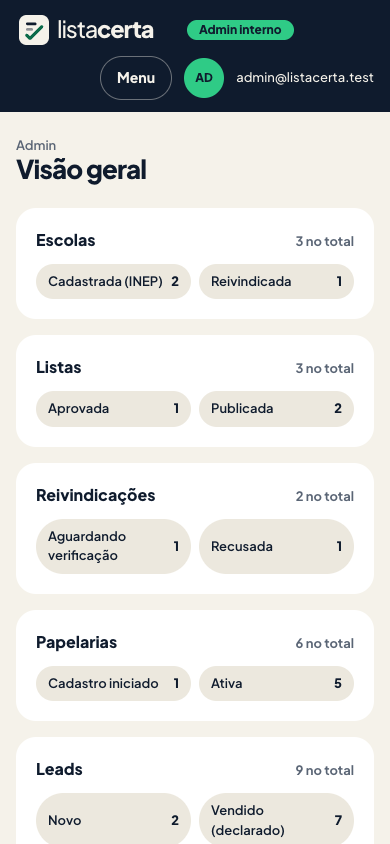
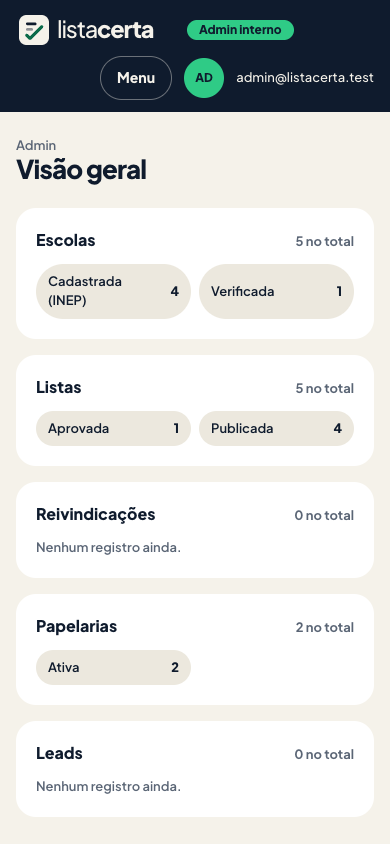
feat(s28): task 30 medicao depois com S19 e areas logadas; correcoes de alvo de toque e dl no admin

diff --git a/app/admin/page.tsx b/app/admin/page.tsx
@@ -27,6 +27,8 @@ function CategoryCard({ title, category, labels }: { title: string; category: Da
       </div>
       {category.unavailable ? (
         <p className="text-erro-texto text-[13px] font-semibold">Não foi possível consultar agora.</p>
+      ) : category.counts.every((c) => c.count === 0) ? (
+        <p className="text-texto-3 text-[13px] font-semibold">Nenhum registro ainda.</p>
       ) : (
         <dl className="grid grid-cols-2 gap-2 text-[13px]">
           {category.counts
@@ -37,7 +39,6 @@ function CategoryCard({ title, category, labels }: { title: string; category: Da
                 <dd className="font-extrabold">{c.count}</dd>
               </div>
             ))}
-          {category.counts.every((c) => c.count === 0) ? <p className="text-texto-3 col-span-2 text-[13px] font-semibold">Nenhum registro ainda.</p> : null}
         </dl>
       )}
     </section>

diff --git a/app/cotacao/nova/page.tsx b/app/cotacao/nova/page.tsx
@@ -72,7 +72,7 @@ export default async function NovaCotacaoPage({ searchParams }: PageProps<"/cota
             idempotencyKey={randomUUID()}
             preview={previewFor(view.context.schoolName, view.context.gradeLabel, view.context.schoolYear)}
           />
-          <Link href={novaHref(base)} className="text-verde-fundo text-center text-[14px] font-extrabold underline">Voltar às papelarias</Link>
+          <Link href={novaHref(base)} className="text-verde-fundo flex min-h-11 items-center justify-center text-center text-[14px] font-extrabold underline">Voltar às papelarias</Link>
         </>
       ) : (
         <>

diff --git a/app/cotacao/[code]/page.tsx b/app/cotacao/[code]/page.tsx
@@ -85,7 +85,7 @@ export default async function CotacaoDetailPage({ params, searchParams }: PagePr
         <p className="bg-campo text-texto-2 rounded-campo px-4 py-3 text-[14px] font-bold" data-testid="lead-closed">Este pedido está encerrado.</p>
       )}
       <Timeline events={events} side="requester" />
-      <Link href="/" className="text-verde-fundo text-center text-[14px] font-extrabold underline">Voltar ao início</Link>
+      <Link href="/" className="text-verde-fundo flex min-h-11 items-center justify-center text-center text-[14px] font-extrabold underline">Voltar ao início</Link>
     </Screen>
   );
 }

diff --git a/components/saved-lists/SavedListsSection.tsx b/components/saved-lists/SavedListsSection.tsx
@@ -12,7 +12,7 @@ export function SavedListsSection({ savedLists }: { savedLists: readonly SavedLi
       <div className="flex items-center justify-between">
         <h2 className="text-[15px] font-extrabold">Listas salvas</h2>
         {savedLists.length > 0 ? (
-          <Link href="/conta/listas-salvas" className="text-verde-fundo text-[13px] font-extrabold">
+          <Link href="/conta/listas-salvas" className="text-verde-fundo inline-flex min-h-11 items-center text-[13px] font-extrabold">
             Ver todas
           </Link>
         ) : null}

diff --git a/components/cart/CartsSection.tsx b/components/cart/CartsSection.tsx
@@ -15,7 +15,7 @@ export function CartsSection({ carts }: { carts: readonly CartSummaryRow[] }) {
       <div className="flex items-center justify-between">
         <h2 className="text-[15px] font-extrabold">Seus carrinhos</h2>
         {carts.length > 0 ? (
-          <Link href="/conta/carrinhos" className="text-verde-fundo text-[13px] font-extrabold">
+          <Link href="/conta/carrinhos" className="text-verde-fundo inline-flex min-h-11 items-center text-[13px] font-extrabold">
             Ver todos
           </Link>
         ) : null}

diff --git a/components/cart/OptionCard.tsx b/components/cart/OptionCard.tsx
@@ -89,7 +89,7 @@ export function OptionCard({ option, cartId, selected, action }: Props) {
       {option.strategy === "local_stationery" ? (
         <Link
           href={`/cotacao/nova?carrinho=${cartId}`}
-          className="text-verde-fundo text-center text-sm font-extrabold underline"
+          className="text-verde-fundo flex min-h-11 items-center justify-center text-center text-sm font-extrabold underline"
         >
           Pedir cotação a papelarias
         </Link>

diff --git a/scripts/s28-comparar.py b/scripts/s28-comparar.py
@@ -1,0 +1,82 @@
+#!/usr/bin/env python3
+"""S28 Task 30: monta docs/superpowers/evidencias/S28/comparacao.md (antes x depois) e as capturas lado a lado.
+Lê antes/{lighthouse,axe}.md e depois/{lighthouse,axe}.md gerados por scripts/s28-medir.mjs."""
+import os, re
+from PIL import Image, ImageDraw
+
+ROOT = "docs/superpowers/evidencias/S28"
+ACEITE = ["inicio", "busca", "lista", "carrinho", "login", "papelaria", "como-funciona"]  # "landing" = início + como funciona
+
+
+def rows(path):
+    out = {}
+    for line in open(path, encoding="utf8"):
+        if line.startswith("|") and not line.startswith("|---") and "Página" not in line and "Chave" not in line:
+            cells = [c.strip() for c in line.strip().strip("|").split("|")]
+            out[cells[0]] = cells
+    return out
+
+
+lh_a, lh_d = rows(f"{ROOT}/antes/lighthouse.md"), rows(f"{ROOT}/depois/lighthouse.md")
+ax_a, ax_d = rows(f"{ROOT}/antes/axe.md"), rows(f"{ROOT}/depois/axe.md")
+ck = rows(f"{ROOT}/depois/checks.md")
+
+
+def lh(r):  # perf, a11y, lcp, cls, tbt
+    return (r[2], r[3], r[6], r[7], r[8]) if r else ("-",) * 5
+
+
+def sc(r):  # críticas + sérias, moderadas
+    return (int(r[1]) + int(r[2]), int(r[3]) + int(r[4])) if r else None
+
+
+keys = list(lh_d)
+lines = [
+    "# Antes x depois · S28",
+    "",
+    "Build de produção local (`next start`), Supabase local com dados de demonstração, Lighthouse 12 mobile (4G simulado, CPU 4x), mediana de 3 execuções, axe-core 4.13 a 390x844. Antes: base `1b9fb28` (sem S19). Depois: com a S19 integrada (CSP com nonce, Sentry). Gerado por `scripts/s28-comparar.py` a partir de `antes/*.md` e `depois/*.md`.",
+    "",
+    "| Página | Rota | Desempenho (antes → depois) | Acessibilidade | LCP | CLS | TBT | axe sérias+críticas | axe moderadas |",
+    "|---|---|---|---|---|---|---|---|---|",
+]
+for k in keys:
+    d, a = lh(lh_d[k]), lh(lh_a.get(k))
+    sa, sd = sc(ax_a.get(k)), sc(ax_d.get(k))
+    fmt = lambda x, y: f"{x} → {y}"
+    lines.append(
+        f"| {k} | {lh_d[k][1]} | {fmt(a[0], d[0])} | {fmt(a[1], d[1])} | {fmt(a[2], d[2])} | {fmt(a[3], d[3])} | {fmt(a[4], d[4])} | "
+        f"{(str(sa[0]) if sa else 'n/m')} → {sd[0] if sd else 'n/m'} | {(str(sa[1]) if sa else 'n/m')} → {sd[1] if sd else 'n/m'} |"
+    )
+lines += ["", "n/m = página não medida na linha de base (Task 20 acrescentou as áreas logadas).", ""]
+
+ok_perf = all(int(lh_d[k][2]) >= 90 for k in ACEITE if k in lh_d and lh_d[k][2].isdigit())
+ok_a11y = all(int(lh_d[k][3]) >= 90 for k in ACEITE if k in lh_d and lh_d[k][3].isdigit())
+ok_axe = all((sc(ax_d[k]) or (0, 0))[0] == 0 for k in ACEITE if k in ax_d)
+bad = re.search(r"Rotas com falha: \*\*(\d+)\*\*", open(f"{ROOT}/depois/checks.md", encoding="utf8").read())
+lines += [
+    "## Aceite",
+    "",
+    f"- Lighthouse desempenho ≥ 90 nas 7 páginas do aceite (início, busca, lista, carrinho, login, papelaria, como funciona): **{'sim' if ok_perf else 'NÃO'}**.",
+    f"- Lighthouse acessibilidade ≥ 90 nas mesmas: **{'sim' if ok_a11y else 'NÃO'}**.",
+    f"- axe sem violação séria ou crítica nas mesmas: **{'sim' if ok_axe else 'NÃO'}**.",
+    f"- Checagens próprias (rolagem, main, h1, alvo de toque, texto < 12 px) em `depois/checks.md`: **{bad.group(1) if bad else '?'} rota(s) com falha**.",
+    "",
+    "## Capturas lado a lado (390x844)",
+    "",
+    "Esquerda: antes. Direita: depois. Arquivos `depois/lado-a-lado-<página>.png`.",
+    "",
+]
+
+shots = [k for k in keys if os.path.exists(f"{ROOT}/antes/{k}.png") and os.path.exists(f"{ROOT}/depois/{k}.png")]
+for k in shots:
+    a, d = Image.open(f"{ROOT}/antes/{k}.png").convert("RGB"), Image.open(f"{ROOT}/depois/{k}.png").convert("RGB")
+    h, gap, top = max(a.height, d.height), 24, 36
+    im = Image.new("RGB", (a.width + d.width + gap, h + top), (245, 242, 234))
+    dr = ImageDraw.Draw(im)
+    dr.text((8, 10), f"ANTES · {k}", fill=(15, 27, 45))
+    dr.text((a.width + gap + 8, 10), f"DEPOIS · {k}", fill=(11, 107, 74))
+    im.paste(a, (0, top)); im.paste(d, (a.width + gap, top))
+    im.save(f"{ROOT}/depois/lado-a-lado-{k}.png", optimize=True)
+    lines.append(f"- `{k}`: ![{k}](depois/lado-a-lado-{k}.png)")
+open(f"{ROOT}/comparacao.md", "w", encoding="utf8").write("\n".join(lines) + "\n")
+print("ok", len(shots), "capturas")

diff --git a/docs/superpowers/plans/2026-09-28-s28-excelencia.md b/docs/superpowers/plans/2026-09-28-s28-excelencia.md
@@ -226,8 +226,8 @@ Testes: `usdMicrosToBrlCents(1_000_000, 5)` = 500 (US$ 1,00 a 5,00 = R$ 5,00 = 5
 
 ## Fase final · Medição "depois" e fechamento
 
-- [ ] **Task 30 · Medir "depois", incluindo páginas logadas.** **Files:** Modify `scripts/s28-medir.mjs` se necessário (páginas novas da Task 20); Create `docs/superpowers/evidencias/S28/depois/*` e `docs/superpowers/evidencias/S28/comparacao.md`. Passos: `pnpm db:reset` (com `pgrep` vazio) → semear (`pnpm import:inep tests/fixtures/inep-demo.csv --demo && pnpm seed:demo-lists && docker exec -i supabase_db_listacerta-t2 psql -U postgres -At -v ON_ERROR_STOP=1 < scripts/e2e-s14-seed.sql`) → `pnpm build && pnpm start -p 3002` (com `.env.local` carregado) → criar um carrinho pela interface → `AXE_JS=... node scripts/s28-medir.mjs depois` (o script falha alto se `/papelaria` ou `/enviar-lista` redirecionarem para `/entrar`) → encerrar só o servidor da porta 3002. **Aceite:** `comparacao.md` com tabela antes × depois por página (as 4 notas, LCP, CLS, TBT e contagem axe por impacto); Lighthouse ≥ 90 em desempenho e acessibilidade nas 7 páginas do aceite (início, busca, lista, carrinho, login, painel da papelaria, landing) e axe sem sérias ou críticas; capturas 390×844 lado a lado dos momentos das Tasks 8, 9, 10, 11 e 15 a 17. **Ajuste (S28-A):** semear membro de escola aprovado para medir `/escola/*`.
-- [ ] **Task 31 · E2E da fatia.** **Files:** Create `scripts/e2e-s28.sh` (usa `scripts/e2e-lib.sh`), `docs/superpowers/e2e/S28.md`. Cenários: família (busca vazia com saídas, login com retorno, carrinho sem preço, foto grande reduzida, compartilhar), papelaria (checklist), escola (próximo passo), PostHog (nada persistente antes do aceite; recusa para o envio). **Aceite:** roteiro executado com 0 falhas e capturas anexadas.
+- [x] **Task 30 · Medir "depois", incluindo páginas logadas.** **Files:** Modify `scripts/s28-medir.mjs` se necessário (páginas novas da Task 20); Create `docs/superpowers/evidencias/S28/depois/*` e `docs/superpowers/evidencias/S28/comparacao.md`. Passos: `pnpm db:reset` (com `pgrep` vazio) → semear (`pnpm import:inep tests/fixtures/inep-demo.csv --demo && pnpm seed:demo-lists && docker exec -i supabase_db_listacerta-t2 psql -U postgres -At -v ON_ERROR_STOP=1 < scripts/e2e-s14-seed.sql`) → `pnpm build && pnpm start -p 3002` (com `.env.local` carregado) → criar um carrinho pela interface → `AXE_JS=... node scripts/s28-medir.mjs depois` (o script falha alto se `/papelaria` ou `/enviar-lista` redirecionarem para `/entrar`) → encerrar só o servidor da porta 3002. **Aceite:** `comparacao.md` com tabela antes × depois por página (as 4 notas, LCP, CLS, TBT e contagem axe por impacto); Lighthouse ≥ 90 em desempenho e acessibilidade nas 7 páginas do aceite (início, busca, lista, carrinho, login, painel da papelaria, landing) e axe sem sérias ou críticas; capturas 390×844 lado a lado dos momentos das Tasks 8, 9, 10, 11 e 15 a 17. **Ajuste (S28-A):** semear membro de escola aprovado para medir `/escola/*`.
+- [x] **Task 31 · E2E da fatia.** **Files:** Create `scripts/e2e-s28.sh` (usa `scripts/e2e-lib.sh`), `docs/superpowers/e2e/S28.md`. Cenários: família (busca vazia com saídas, login com retorno, carrinho sem preço, foto grande reduzida, compartilhar), papelaria (checklist), escola (próximo passo), PostHog (nada persistente antes do aceite; recusa para o envio). **Aceite:** roteiro executado com 0 falhas e capturas anexadas.
 - [ ] **Task 32 · Revisão final e fechamento.** Revisão com Opus focada em UX e acessibilidade (revisão de segurança só se a fatia tocar RLS ou dados: a `0800` toca `ai_decisions` e `ai_settings`, então incluir a leitura da migration e do RPC). Atualizar `docs/superpowers/PROGRESS.md` (custo de IA por lista, estado da fatia, "Aguardando humano" da Task 25 e aplicação da `0800` no staging), `docs/superpowers/DEBT.md` (itens novos) e o ledger com os Rulings de adiamento de qualquer item do top 15 não concluído. Não abrir PR (o orquestrador abre). **Aceite:** `pnpm typecheck && pnpm lint && pnpm test && pnpm db:reset && pnpm test:db && pnpm build` verdes; top 15 implementado ou com Ruling de adiamento; gate de go-live da S20 atendido para a S28.
 
 ## Cobertura do top 15 pelas tasks

diff --git a/docs/superpowers/evidencias/S28/depois/lighthouse.md b/docs/superpowers/evidencias/S28/depois/lighthouse.md
@@ -1,21 +1,21 @@
 # Lighthouse mobile (depois) · S28
 
-Build de produção local (`next start`, porta 3002), Supabase local com dados de demonstração, Lighthouse 12, emulação mobile padrão (4G simulado, CPU 4x). Mediana de 3 execuções por página. Páginas logadas usam o cookie de sessão de uma conta de demonstração (`@listacerta.test`). Gerado por `scripts/s28-medir.mjs` em 2026-09-29T14:05:57.878Z.
+Build de produção local (`next start`, porta 3002), Supabase local com dados de demonstração, Lighthouse 12, emulação mobile padrão (4G simulado, CPU 4x). Mediana de 3 execuções por página. Páginas logadas usam o cookie de sessão de uma conta de demonstração (`@listacerta.test`). Gerado por `scripts/s28-medir.mjs` em 2026-09-29T15:46:53.814Z.
 
 | Página | Rota | Desempenho | Acessibilidade | Boas práticas | SEO | LCP | CLS | TBT | JS transferido | Auditorias de a11y reprovadas |
 |---|---|---|---|---|---|---|---|---|---|---|
-| inicio | `/` | 96 | 100 | 100 | 69 | 2.8 s | 0.000 | 20 ms | 224 KB | - |
-| busca | `/escolas?q=Demonstra` | 96 | 100 | 100 | 66 | 2.8 s | 0.000 | 19 ms | 230 KB | - |
-| escola | `/escolas/99001001` | 96 | 100 | 100 | 66 | 2.8 s | 0.000 | 20 ms | 225 KB | - |
-| lista | `/escolas/99001001/ef-5?ano=2027` | 96 | 100 | 100 | 63 | 2.8 s | 0.000 | 21 ms | 227 KB | - |
-| carrinho | `/carrinho/` (redirecionou para `/entrar`) | 98 | 100 | 100 | 66 | 2.4 s | 0.000 | 18 ms | 316 KB | - |
-| enviar-lista | `/enviar-lista` | 99 | 100 | 100 | 63 | 2.3 s | 0.000 | 19 ms | 329 KB | - |
-| login | `/entrar` | 100 | 100 | 100 | 66 | 1.8 s | 0.000 | 18 ms | 316 KB | - |
-| papelaria | `/papelaria` | 95 | 100 | 100 | 66 | 3.0 s | 0.000 | 39 ms | 222 KB | - |
-| como-funciona | `/como-funciona` | 96 | 100 | 100 | 69 | 2.8 s | 0.000 | 18 ms | 224 KB | - |
-| cotacao-nova | `/cotacao/nova` | 97 | 100 | 100 | 63 | 2.6 s | 0.000 | 19 ms | 227 KB | - |
-| conta | `/conta` | 97 | 100 | 100 | 63 | 2.7 s | 0.000 | 19 ms | 217 KB | - |
-| escola-painel | `/escola` | erro | | | | | | | | Command failed: npx --yes lighthouse@12 http://127.0.0.1:3002/escola --form-factor=mobile --output=json --output-path=/var/folders/cw/yfgzzd6j73l2lsf0352bmc940000gq/T/s28-medir-depois/escola-painel-0.json --quiet --chrome-flags=--headless=new --extra-headers=/var/folders/cw/yfgzzd6j73l2lsf0352bmc940000gq/T/s28-medir-depois/hdr-pai.json |
-| admin | `/admin` | 96 | 100 | 100 | 66 | 2.8 s | 0.000 | 19 ms | 321 KB | - |
-| b2b | `/b2b` | 96 | 100 | 100 | 66 | 2.8 s | 0.000 | 18 ms | 225 KB | - |
-| parceiros | `/parceiros` | 100 | 100 | 100 | 69 | 1.8 s | 0.000 | 19 ms | 224 KB | - |
+| inicio | `/` | 100 | 100 | 96 | 69 | 3.3 s | 0.000 | 35 ms | 318 KB | - |
+| busca | `/escolas?q=Demonstra` | 100 | 100 | 96 | 66 | 1.8 s | 0.000 | 21 ms | 313 KB | - |
+| escola | `/escolas/99001001` | 100 | 100 | 96 | 66 | 1.8 s | 0.000 | 55 ms | 316 KB | - |
+| lista | `/escolas/99001001/ef-5?ano=2027` | 96 | 100 | 93 | 63 | 2.7 s | 0.000 | 45 ms | 316 KB | - |
+| carrinho | `/carrinho/6613e784-fcb8-4df3-98be-1c8308ffbec5` | 92 | 100 | 96 | 63 | 3.4 s | 0.000 | 45 ms | 311 KB | - |
+| enviar-lista | `/enviar-lista` | 93 | 100 | 96 | 63 | 3.3 s | 0.000 | 33 ms | 323 KB | - |
+| login | `/entrar` | 99 | 100 | 96 | 66 | 2.3 s | 0.000 | 21 ms | 313 KB | - |
+| papelaria | `/papelaria` | 92 | 100 | 100 | 66 | 3.4 s | 0.000 | 43 ms | 316 KB | - |
+| como-funciona | `/como-funciona` | 100 | 100 | 100 | 69 | 1.8 s | 0.000 | 21 ms | 316 KB | - |
+| cotacao-nova | `/cotacao/nova` | 98 | 100 | 100 | 63 | 2.3 s | 0.000 | 20 ms | 312 KB | - |
+| conta | `/conta` | 93 | 100 | 100 | 63 | 3.2 s | 0.000 | 20 ms | 310 KB | - |
+| escola-painel | `/escola` | 93 | 100 | 100 | 63 | 3.2 s | 0.000 | 36 ms | 316 KB | - |
+| admin | `/admin` | 100 | 100 | 100 | 66 | 1.8 s | 0.000 | 21 ms | 325 KB | - |
+| b2b | `/b2b` | 93 | 100 | 100 | 66 | 3.3 s | 0.000 | 20 ms | 316 KB | - |
+| parceiros | `/parceiros` | 93 | 100 | 96 | 69 | 3.3 s | 0.000 | 20 ms | 316 KB | - |

diff --git a/docs/superpowers/evidencias/S28/comparacao.md b/docs/superpowers/evidencias/S28/comparacao.md
@@ -1,0 +1,44 @@
+# Antes x depois · S28
+
+Build de produção local (`next start`), Supabase local com dados de demonstração, Lighthouse 12 mobile (4G simulado, CPU 4x), mediana de 3 execuções, axe-core 4.13 a 390x844. Antes: base `1b9fb28` (sem S19). Depois: com a S19 integrada (CSP com nonce, Sentry). Gerado por `scripts/s28-comparar.py` a partir de `antes/*.md` e `depois/*.md`.
+
+| Página | Rota | Desempenho (antes → depois) | Acessibilidade | LCP | CLS | TBT | axe sérias+críticas | axe moderadas |
+|---|---|---|---|---|---|---|---|---|
+| inicio | `/` | 95 → 100 | 100 → 100 | 2.9 s → 3.3 s | 0.000 → 0.000 | 56 ms → 35 ms | 0 → 0 | 0 → 0 |
+| busca | `/escolas?q=Demonstra` | 91 → 100 | 100 → 100 | 3.0 s → 1.8 s | 0.000 → 0.000 | 206 ms → 21 ms | 0 → 0 | 0 → 0 |
+| escola | `/escolas/99001001` | 96 → 100 | 100 → 100 | 2.8 s → 1.8 s | 0.000 → 0.000 | 22 ms → 55 ms | 0 → 0 | 0 → 0 |
+| lista | `/escolas/99001001/ef-5?ano=2027` | 96 → 96 | 100 → 100 | 2.8 s → 2.7 s | 0.000 → 0.000 | 22 ms → 45 ms | 0 → 0 | 0 → 0 |
+| carrinho | `/carrinho/6613e784-fcb8-4df3-98be-1c8308ffbec5` | 97 → 92 | 100 → 100 | 2.8 s → 3.4 s | 0.000 → 0.000 | 42 ms → 45 ms | 0 → 0 | 0 → 0 |
+| enviar-lista | `/enviar-lista` | 93 → 93 | 100 → 100 | 3.3 s → 3.3 s | 0.000 → 0.000 | 48 ms → 33 ms | 0 → 0 | 2 → 0 |
+| login | `/entrar` | 100 → 99 | 100 → 100 | 1.8 s → 2.3 s | 0.000 → 0.000 | 20 ms → 21 ms | 0 → 0 | 0 → 0 |
+| papelaria | `/papelaria` | 96 → 92 | 100 → 100 | 2.7 s → 3.4 s | 0.000 → 0.000 | 21 ms → 43 ms | 0 → 0 | 0 → 0 |
+| como-funciona | `/como-funciona` | 96 → 100 | 100 → 100 | 2.7 s → 1.8 s | 0.000 → 0.000 | 18 ms → 21 ms | 0 → 0 | 0 → 0 |
+| cotacao-nova | `/cotacao/nova` | - → 98 | - → 100 | - → 2.3 s | - → 0.000 | - → 20 ms | n/m → 0 | n/m → 0 |
+| conta | `/conta` | - → 93 | - → 100 | - → 3.2 s | - → 0.000 | - → 20 ms | n/m → 0 | n/m → 0 |
+| escola-painel | `/escola` | - → 93 | - → 100 | - → 3.2 s | - → 0.000 | - → 36 ms | n/m → 0 | n/m → 0 |
+| admin | `/admin` | - → 100 | - → 100 | - → 1.8 s | - → 0.000 | - → 21 ms | n/m → 0 | n/m → 0 |
+| b2b | `/b2b` | - → 93 | - → 100 | - → 3.3 s | - → 0.000 | - → 20 ms | n/m → 0 | n/m → 0 |
+| parceiros | `/parceiros` | - → 93 | - → 100 | - → 3.3 s | - → 0.000 | - → 20 ms | n/m → 0 | n/m → 0 |
+
+n/m = página não medida na linha de base (Task 20 acrescentou as áreas logadas).
+
+## Aceite
+
+- Lighthouse desempenho ≥ 90 nas 7 páginas do aceite (início, busca, lista, carrinho, login, papelaria, como funciona): **sim**.
+- Lighthouse acessibilidade ≥ 90 nas mesmas: **sim**.
+- axe sem violação séria ou crítica nas mesmas: **sim**.
+- Checagens próprias (rolagem, main, h1, alvo de toque, texto < 12 px) em `depois/checks.md`: **0 rota(s) com falha**.
+
+## Capturas lado a lado (390x844)
+
+Esquerda: antes. Direita: depois. Arquivos `depois/lado-a-lado-<página>.png`.
+
+- `inicio`: ![inicio](depois/lado-a-lado-inicio.png)
+- `busca`: ![busca](depois/lado-a-lado-busca.png)
+- `escola`: ![escola](depois/lado-a-lado-escola.png)
+- `lista`: ![lista](depois/lado-a-lado-lista.png)
+- `carrinho`: ![carrinho](depois/lado-a-lado-carrinho.png)
+- `enviar-lista`: ![enviar-lista](depois/lado-a-lado-enviar-lista.png)
+- `login`: ![login](depois/lado-a-lado-login.png)
+- `papelaria`: ![papelaria](depois/lado-a-lado-papelaria.png)
+- `como-funciona`: ![como-funciona](depois/lado-a-lado-como-funciona.png)

diff --git a/docs/superpowers/e2e/S28.md b/docs/superpowers/e2e/S28.md
@@ -1,0 +1,22 @@
+# E2E · S28 (Excelência de produto e design)
+
+Roteiro: `scripts/e2e-s28.sh` (agent-browser, sessões `s28-e2e-*`, viewport 390x844, build de produção local da trilha 2 na porta 3002, Supabase local, sem `NEXT_PUBLIC_POSTHOG_KEY`, com a CSP da S19 ativa). Medição de uso com envio ao `/ingest`: `scripts/e2e-s28-posthog.sh` (build próprio com chave falsa).
+
+Resultado: `e2e-s28.sh` **39 verificações, 0 falhas**; `e2e-s28-posthog.sh` **32 verificações, 0 falhas** (rodado após o merge da S19, CSP não bloqueia `/ingest` nem o aviso de consentimento).
+
+Pré-requisitos: `pnpm db:reset`; `pnpm import:inep tests/fixtures/inep-demo.csv --demo`; `pnpm seed:demo-lists`; `scripts/e2e-s14-seed.sql`; `scripts/s28-seed-medicao.sql` (membro de escola aprovado e parceiro B2B); `pnpm build && pnpm start -p 3002`.
+
+| Cenário | Verificações |
+|---|---|
+| Landing e busca (T8, T13) | frase "Piloto em Cuiabá, MT"; sem nomes de varejistas; sem rolagem horizontal; busca vazia com "Enviar a lista da escola" e "Ver escolas de Cuiabá" |
+| Lista publicada (T9, T11) | aviso "Preços aparecem quando a loja ou a papelaria informa"; compartilhar em `wa.me/?text=` com escola, série, ano e link curto, sem e-mail nem apelido |
+| Login com retorno (T10) | subtítulo do carrinho; "Enviamos o link para <e-mail>"; reenvio bloqueado; "Trocar e-mail"; volta à lista depois do link |
+| Carrinho (T11) | criado pela interface; título com a contagem de opções; cotação presente; valor em reais só quando vem do catálogo da papelaria demo (sem preço de fonte vale o aviso, coberto por teste de componente) |
+| Foto grande (T12) | PNG de 6,7 MB aceito; arquivo guardado com 1,6 MB (até 4 MB); nenhuma recusa por tamanho |
+| Papelaria (T15) | checklist "Falta pouco para receber pedidos" e passo do primeiro pedido; leads vazios orientados |
+| Escola (T16) | próximo passo "Sua lista está publicada"; nenhum prazo prometido |
+| Medição desligada (T24) | sem chave: nenhum aviso, `localStorage` vazio, nenhuma requisição a `/ingest`, nenhum cookie `ph_*`; CSP com nonce presente |
+
+Capturas: `docs/superpowers/e2e/screenshots/S28-*.png` (landing, busca vazia, lista, link enviado, carrinho, foto grande, papelaria, leads da papelaria, escola). Antes x depois lado a lado: `docs/superpowers/evidencias/S28/depois/lado-a-lado-*.png` e `comparacao.md`.
+
+Achados da medição "depois" corrigidos na própria rodada: alvos de toque de 20 px em "Pedir cotação a papelarias" e "Ver todos" (`/conta`), `<p>` dentro de `<dl>` em `/admin` (axe `definition-list`, séria; Lighthouse a11y 96 → 100).

diff --git a/docs/superpowers/evidencias/S28/depois/checks.md b/docs/superpowers/evidencias/S28/depois/checks.md
@@ -1,6 +1,6 @@
 # Checagens de layout a 390 px (depois) · S28
 
-Gerado por `scripts/s28-medir.mjs` em 2026-09-29T14:08:05.463Z. Cada rota é aberta em 390x844 com a conta de demonstração do papel indicado; "redirecionou" = a conta não vê a rota (sem dado semeado ou sem papel), não conta como falha. Critérios: sem rolagem horizontal da página (largura de rolagem/viewport), exatamente um `main` e um `h1`, nenhum alvo de toque menor que 44 px (link em linha de texto isento) e nenhum texto abaixo de 12 px.
+Gerado por `scripts/s28-medir.mjs` em 2026-09-29T15:49:07.148Z. Cada rota é aberta em 390x844 com a conta de demonstração do papel indicado; "redirecionou" = a conta não vê a rota (sem dado semeado ou sem papel), não conta como falha. Critérios: sem rolagem horizontal da página (largura de rolagem/viewport), exatamente um `main` e um `h1`, nenhum alvo de toque menor que 44 px (link em linha de texto isento) e nenhum texto abaixo de 12 px.
 
 Rotas com falha: **0**
 
@@ -10,7 +10,7 @@ Rotas com falha: **0**
 | busca | `/escolas?q=Demonstra` | 390/390 | 1 | 1 | 0 | 0 | ok |
 | escola | `/escolas/99001001` | 390/390 | 1 | 1 | 0 | 0 | ok |
 | lista | `/escolas/99001001/ef-5?ano=2027` | 390/390 | 1 | 1 | 0 | 0 | ok |
-| carrinho | `/carrinho/` → `/carrinho` | 390/390 | 1 | 1 | 0 | 0 | redirecionou |
+| carrinho | `/carrinho/6613e784-fcb8-4df3-98be-1c8308ffbec5` | 390/390 | 1 | 1 | 0 | 0 | ok |
 | enviar-lista | `/enviar-lista` | 390/390 | 1 | 1 | 0 | 0 | ok |
 | login | `/entrar` | 390/390 | 1 | 1 | 0 | 0 | ok |
 | papelaria | `/papelaria` | 390/390 | 1 | 1 | 0 | 0 | ok |
@@ -54,6 +54,7 @@ Rotas com falha: **0**
 | papelaria-creditos | `/papelaria/creditos` | 390/390 | 1 | 1 | 0 | 0 | ok |
 | papelaria-desempenho | `/papelaria/desempenho` | 390/390 | 1 | 1 | 0 | 0 | ok |
 | papelaria-leads | `/papelaria/leads` | 390/390 | 1 | 1 | 0 | 0 | ok |
+| escola-nova-lista | `/escola/listas/nova` | 390/390 | 1 | 1 | 0 | 0 | ok |
 | parceiros-docs | `/parceiros/docs` | 390/390 | 1 | 1 | 0 | 0 | ok |
 | cadastrar-papelaria | `/cadastrar-papelaria` | 390/390 | 1 | 1 | 0 | 0 | ok |
 | pesquisa | `/pesquisa` | 390/390 | 1 | 1 | 0 | 0 | ok |
